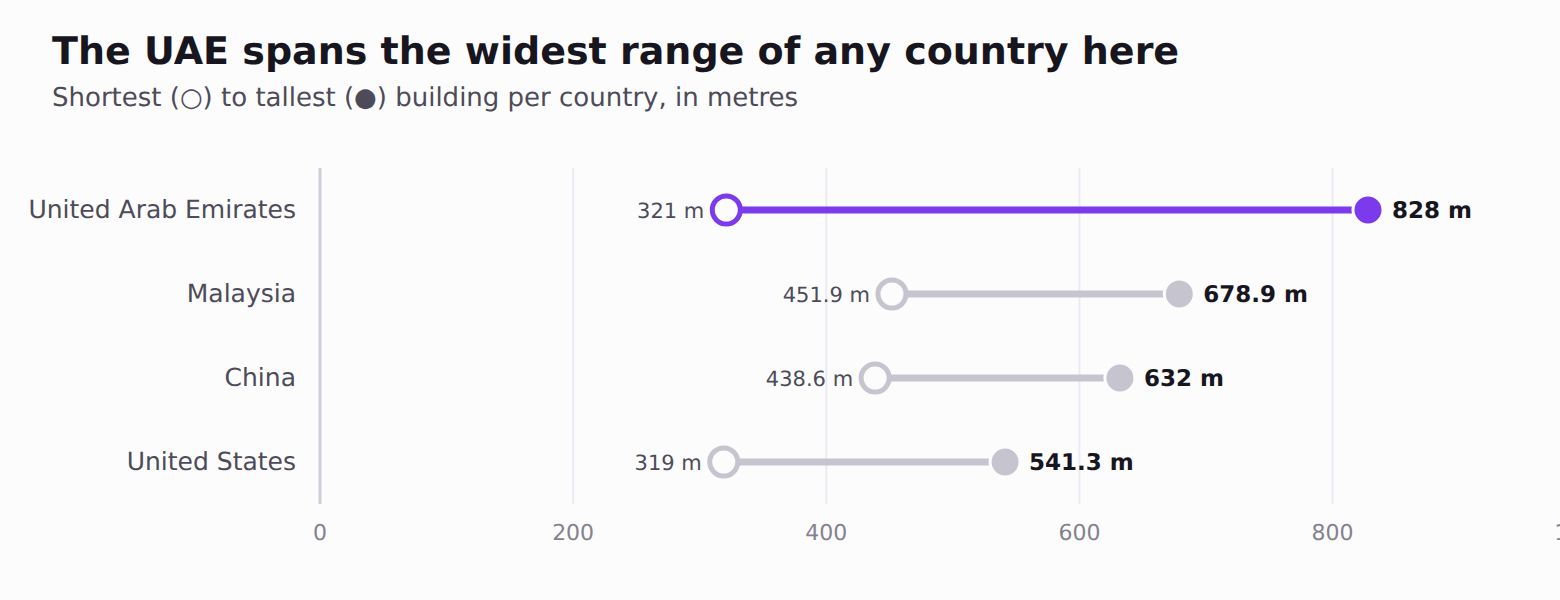
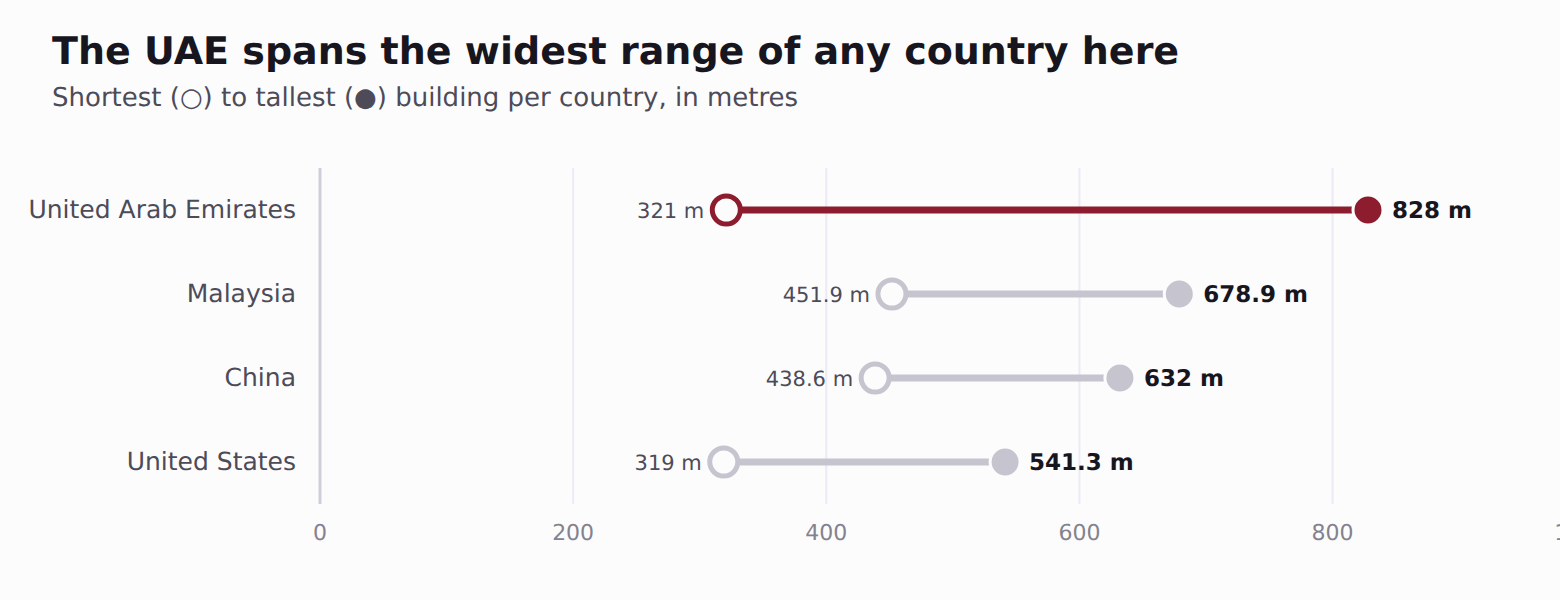
Highlight the dumbbell in maroon (distinct from the skyline accent)
Add a highlight_color option to dumbbell_chart and set the gallery's UAE
highlight to maroon (#8c1c2e), so the dumbbell reads differently from the
skyline's violet accent. Update README and gallery.html.

Claude-Session: https://claude.ai/code/session_017D31o85Z97G5tbzbCygbSp

Changed region(s): [[0.4308, 0.33, 0.8923, 0.39]]

diff --git a/examples/gallery.html b/examples/gallery.html
@@ -29,7 +29,7 @@
     <figure class="card"><figcaption><h2>Skyline</h2><p>The 15 tallest buildings, each drawn as its own recognizable silhouette, to scale.</p></figcaption><div class="chart"><svg xmlns="http://www.w3.org/2000/svg" width="1090" height="680" viewBox="0 0 1090 680" role="img" font-family="system-ui, -apple-system, 'Segoe UI', sans-serif"><title>Burj Khalifa still towers far above the next tallest</title><rect x="0" y="0" width="1090" height="680" fill="#fcfcfd"/><text x="26" y="32" font-size="19" font-weight="700" fill="#17161f" text-anchor="start">Burj Khalifa still towers far above the next tallest</text><text x="26" y="53" font-size="13" fill="#4d4b58" text-anchor="start">The 15 tallest buildings, each drawn to scale as its own silhouette · metres</text><line x1="52" y1="462.33816425120773" x2="1072" y2="462.33816425120773" stroke="#eceaf4" stroke-width="1"/><text x="46" y="466.33816425120773" font-size="10.5" fill="#84828e" text-anchor="end">200</text><line x1="52" y1="352.67632850241546" x2="1072" y2="352.67632850241546" stroke="#eceaf4" stroke-width="1"/><text x="46" y="356.67632850241546" font-size="10.5" fill="#84828e" text-anchor="end">400</text><line x1="52" y1="243.0144927536232" x2="1072" y2="243.0144927536232" stroke="#eceaf4" stroke-width="1"/><text x="46" y="247.0144927536232" font-size="10.5" fill="#84828e" text-anchor="end">600</text><line x1="52" y1="133.35265700483092" x2="1072" y2="133.35265700483092" stroke="#eceaf4" stroke-width="1"/><text x="46" y="137.35265700483092" font-size="10.5" fill="#84828e" text-anchor="end">800</text><path d="M 56.08 572.00 L 56.08 512.98 L 60.27 512.98 L 60.27 449.42 L 65.06 449.42 L 65.06 381.32 L 69.24 381.32 L 69.24 322.30 L 73.43 322.30 L 73.43 267.82 L 77.02 267.82 L 77.02 222.42 L 80.61 222.42 L 80.61 186.10 L 83.91 186.10 L 83.91 163.40 L 85.16 163.40 L 85.64 118.00 L 86.36 118.00 L 86.84 163.40 L 88.09 163.40 L 88.09 186.10 L 91.39 186.10 L 91.39 222.42 L 94.98 222.42 L 94.98 267.82 L 98.57 267.82 L 98.57 322.30 L 102.76 322.30 L 102.76 381.32 L 106.94 381.32 L 106.94 449.42 L 111.73 449.42 L 111.73 512.98 L 115.92 512.98 L 115.92 572.00 Z" fill="#7c3aed"/><text x="86.0" y="109.0" font-size="10" font-weight="600" fill="#17161f" text-anchor="middle">828 m</text><text x="86.0" y="584" font-size="11" fill="#4d4b58" text-anchor="end" transform="rotate(-90 86.0 584)">Burj Khalifa</text><path d="M 127.67 572.00 L 142.03 356.10 L 146.22 318.87 L 151.01 303.98 L 152.32 294.68 L 153.04 285.37 L 153.70 199.75 L 154.30 199.75 L 154.96 285.37 L 155.68 294.68 L 156.99 303.98 L 161.78 318.87 L 165.97 356.10 L 180.33 572.00 Z" fill="#4d4b58"/><text x="154.0" y="190.75289855072464" font-size="10" font-weight="400" fill="#4d4b58" text-anchor="middle">678.9 m</text><text x="154.0" y="584" font-size="11" fill="#4d4b58" text-anchor="end" transform="rotate(-90 154.0 584)">Merdeka 118</text><path d="M 196.87 572.00 C 201.65 416.06 214.82 301.71 216.02 242.80 Q 225.59 225.47 235.16 242.80 C 237.56 301.71 242.35 416.06 247.13 572.00 Z" fill="#4d4b58"/><text x="222.0" y="216.46859903381647" font-size="10" font-weight="400" fill="#4d4b58" text-anchor="middle">632 m</text><text x="222.0" y="584" font-size="11" fill="#4d4b58" text-anchor="end" transform="rotate(-90 222.0 584)">Shanghai Tower</text><path d="M 264.87 572.00 L 266.06 361.10 L 266.06 334.74 L 270.85 334.74 L 270.85 308.37 L 276.24 308.37 L 276.24 298.49 L 284.61 298.49 L 284.61 285.31 L 287.91 285.31 L 287.91 272.12 L 289.16 272.12 L 289.64 242.47 L 290.36 242.47 L 290.84 272.12 L 292.09 272.12 L 292.09 285.31 L 295.39 285.31 L 295.39 298.49 L 303.76 298.49 L 303.76 308.37 L 309.15 308.37 L 309.15 334.74 L 313.94 334.74 L 313.94 361.10 L 315.13 572.00 Z" fill="#4d4b58"/><circle cx="290.00" cy="374.28" r="8.98" fill="#fcfcfd" stroke="#4d4b58" stroke-width="1.5"/><line x1="290.00" y1="374.28" x2="290.00" y2="368.89" stroke="#4d4b58" stroke-width="1.3"/><line x1="290.00" y1="374.28" x2="294.49" y2="374.28" stroke="#4d4b58" stroke-width="1.3"/><text x="290.0" y="233.4661835748792" font-size="10" font-weight="400" fill="#4d4b58" text-anchor="middle">601 m</text><text x="290.0" y="584" font-size="11" fill="#4d4b58" text-anchor="end" transform="rotate(-90 290.0 584)">Abraj Al-Bait</text><path d="M 334.06 572.00 L 353.21 292.78 L 355.01 281.28 L 356.80 276.36 L 357.64 243.51 L 358.36 243.51 L 359.20 276.36 L 360.99 281.28 L 362.79 292.78 L 381.94 572.00 Z" fill="#4d4b58"/><text x="358.0" y="234.50797101449274" font-size="10" font-weight="400" fill="#4d4b58" text-anchor="middle">599.1 m</text><text x="358.0" y="584" font-size="11" fill="#4d4b58" text-anchor="end" transform="rotate(-90 358.0 584)">Ping An</text><path d="M 402.06 572.00 L 404.46 523.35 L 407.45 471.67 L 411.04 419.98 L 415.23 365.25 L 419.42 319.65 L 422.71 289.25 L 425.28 267.96 L 426.72 267.96 L 429.29 289.25 L 432.58 319.65 L 436.77 365.25 L 440.96 419.98 L 444.55 471.67 L 447.54 523.35 L 449.94 572.00 Z" fill="#4d4b58"/><text x="426.0" y="258.96256038647346" font-size="10" font-weight="400" fill="#4d4b58" text-anchor="middle">554.5 m</text><text x="426.0" y="584" font-size="11" fill="#4d4b58" text-anchor="end" transform="rotate(-90 426.0 584)">Lotte World</text><path d="M 468.87 572.00 L 485.62 334.56 L 492.32 334.56 L 492.32 328.62 L 493.22 328.62 L 493.52 275.20 L 494.48 275.20 L 494.78 328.62 L 495.68 328.62 L 495.68 334.56 L 502.38 334.56 L 519.13 572.00 Z" fill="#4d4b58"/><text x="494.0" y="266.20024154589373" font-size="10" font-weight="400" fill="#4d4b58" text-anchor="middle">541.3 m</text><text x="494.0" y="584" font-size="11" fill="#4d4b58" text-anchor="end" transform="rotate(-90 494.0 584)">One WTC</text><path d="M 536.87 572.00 L 536.87 473.19 L 541.36 473.19 L 541.36 397.64 L 545.54 397.64 L 545.54 333.70 L 549.13 333.70 L 549.13 281.40 L 574.87 281.40 L 574.87 333.70 L 578.46 333.70 L 578.46 397.64 L 582.64 397.64 L 582.64 473.19 L 587.13 473.19 L 587.13 572.00 Z" fill="#4d4b58"/><text x="562.0" y="272.3961352657005" font-size="10" font-weight="400" fill="#4d4b58" text-anchor="middle">530 m</text><text x="562.0" y="584" font-size="11" fill="#4d4b58" text-anchor="end" transform="rotate(-90 562.0 584)">Guangzhou CTF</text><path d="M 606.06 572.00 L 609.06 513.88 L 612.65 449.95 L 616.84 391.83 L 621.32 339.52 L 624.61 310.46 L 627.31 291.57 L 628.92 281.40 L 631.08 281.40 L 632.69 291.57 L 635.39 310.46 L 638.68 339.52 L 643.16 391.83 L 647.35 449.95 L 650.94 513.88 L 653.94 572.00 Z" fill="#4d4b58"/><text x="630.0" y="272.3961352657005" font-size="10" font-weight="400" fill="#4d4b58" text-anchor="middle">530 m</text><text x="630.0" y="584" font-size="11" fill="#4d4b58" text-anchor="end" transform="rotate(-90 630.0 584)">Tianjin CTF</text><path d="M 671.67 572.00 L 675.86 543.05 L 680.05 485.15 L 682.74 427.25 L 680.05 369.34 L 675.86 311.44 L 674.06 282.49 L 721.94 282.49 L 720.14 311.44 L 715.95 369.34 L 713.26 427.25 L 715.95 485.15 L 720.14 543.05 L 724.33 572.00 Z" fill="#4d4b58"/><text x="698.0" y="273.49275362318843" font-size="10" font-weight="400" fill="#4d4b58" text-anchor="middle">528 m</text><text x="698.0" y="584" font-size="11" fill="#4d4b58" text-anchor="end" transform="rotate(-90 698.0 584)">CITIC / Zun</text><path d="M 746.85 572.00 L 746.85 544.15 L 752.84 544.15 L 757.02 535.79 L 751.94 514.52 L 757.02 514.52 L 757.02 512.67 L 751.94 491.40 L 757.02 491.40 L 757.02 489.55 L 751.94 468.28 L 757.02 468.28 L 757.02 466.43 L 751.94 445.16 L 757.02 445.16 L 757.02 443.31 L 751.94 422.04 L 757.02 422.04 L 757.02 420.20 L 751.94 398.93 L 757.02 398.93 L 757.02 397.08 L 751.94 375.81 L 757.02 375.81 L 757.02 373.96 L 751.94 352.69 L 757.02 352.69 L 763.01 350.84 L 765.64 296.24 L 766.36 296.24 L 768.99 350.84 L 774.98 352.69 L 780.06 352.69 L 774.98 373.96 L 774.98 375.81 L 780.06 375.81 L 774.98 397.08 L 774.98 398.93 L 780.06 398.93 L 774.98 420.20 L 774.98 422.04 L 780.06 422.04 L 774.98 443.31 L 774.98 445.16 L 780.06 445.16 L 774.98 466.43 L 774.98 468.28 L 780.06 468.28 L 774.98 489.55 L 774.98 491.40 L 780.06 491.40 L 774.98 512.67 L 774.98 514.52 L 780.06 514.52 L 774.98 535.79 L 779.16 544.15 L 785.15 544.15 L 785.15 572.00 Z" fill="#4d4b58"/><text x="766.0" y="284.45893719806764" font-size="10" font-weight="400" fill="#4d4b58" text-anchor="middle">508 m</text><text x="766.0" y="584" font-size="11" fill="#4d4b58" text-anchor="end" transform="rotate(-90 766.0 584)">Taipei 101</text><path d="M 810.06 572.00 L 816.05 437.12 L 824.72 307.63 L 825.32 302.23 L 842.68 302.23 L 843.28 307.63 L 851.95 437.12 L 857.94 572.00 Z" fill="#4d4b58"/><path d="M 828.91 356.19 L 839.09 356.19 L 841.48 311.67 L 826.52 311.67 Z" fill="#fcfcfd"/><text x="834.0" y="293.231884057971" font-size="10" font-weight="400" fill="#4d4b58" text-anchor="middle">492 m</text><text x="834.0" y="584" font-size="11" fill="#4d4b58" text-anchor="end" transform="rotate(-90 834.0 584)">Shanghai WFC</text><path d="M 876.87 572.00 L 892.43 370.31 L 894.22 346.43 L 896.02 346.43 L 897.51 325.20 L 899.01 325.20 L 900.32 306.62 L 903.68 306.62 L 904.99 325.20 L 906.49 325.20 L 907.98 346.43 L 909.78 346.43 L 911.57 370.31 L 927.13 572.00 Z" fill="#4d4b58"/><text x="902.0" y="297.6183574879227" font-size="10" font-weight="400" fill="#4d4b58" text-anchor="middle">484 m</text><text x="902.0" y="584" font-size="11" fill="#4d4b58" text-anchor="end" transform="rotate(-90 902.0 584)">ICC (HK)</text><path d="M 946.06 572.00 L 961.02 381.44 L 963.42 360.26 L 967.01 360.26 L 968.32 354.97 L 969.64 307.33 L 970.36 307.33 L 971.68 354.97 L 972.99 360.26 L 976.58 360.26 L 978.98 381.44 L 993.94 572.00 Z" fill="#4d4b58"/><text x="970.0" y="298.3311594202899" font-size="10" font-weight="400" fill="#4d4b58" text-anchor="middle">482.7 m</text><text x="970.0" y="584" font-size="11" fill="#4d4b58" text-anchor="end" transform="rotate(-90 970.0 584)">Exchange 106</text><path d="M 1027.83 572.00 L 1029.32 556.46 L 1029.92 556.46 L 1030.22 312.98 L 1045.78 312.98 L 1046.08 556.46 L 1046.68 556.46 L 1048.17 572.00 Z" fill="#4d4b58"/><text x="1038.0" y="303.9787439613526" font-size="10" font-weight="400" fill="#4d4b58" text-anchor="middle">472.4 m</text><text x="1038.0" y="584" font-size="11" fill="#4d4b58" text-anchor="end" transform="rotate(-90 1038.0 584)">Central Park</text><line x1="52" y1="572" x2="1072" y2="572" stroke="#d0cdda" stroke-width="2"/></svg></div></figure>
     <figure class="card"><figcaption><h2>Bar chart</h2><p>How many of the 31 tallest each country holds — China leads.</p></figcaption><div class="chart"><svg xmlns="http://www.w3.org/2000/svg" width="780" height="370" viewBox="0 0 780 370" role="img" font-family="system-ui, -apple-system, 'Segoe UI', sans-serif"><title>China holds more of the world's tallest than anywhere else</title><rect x="0" y="0" width="780" height="370" fill="#fcfcfd"/><text x="26" y="32" font-size="19" font-weight="700" fill="#17161f" text-anchor="start">China holds more of the world's tallest than anywhere else</text><line x1="160.0" y1="84" x2="160.0" y2="324" stroke="#eceaf4" stroke-width="1"/><text x="160.0" y="342" font-size="11" fill="#84828e" text-anchor="middle">0</text><line x1="400.0" y1="84" x2="400.0" y2="324" stroke="#eceaf4" stroke-width="1"/><text x="400.0" y="342" font-size="11" fill="#84828e" text-anchor="middle">5</text><line x1="640.0" y1="84" x2="640.0" y2="324" stroke="#eceaf4" stroke-width="1"/><text x="640.0" y="342" font-size="11" fill="#84828e" text-anchor="middle">10</text><line x1="880.0" y1="84" x2="880.0" y2="324" stroke="#eceaf4" stroke-width="1"/><text x="880.0" y="342" font-size="11" fill="#84828e" text-anchor="middle">15</text><rect x="160" y="89.1" width="528.0" height="19.799999999999997" rx="3" fill="#7c3aed"/><text x="150" y="103.0" font-size="12.5" fill="#4d4b58" text-anchor="end">China</text><text x="696.0" y="103.0" font-size="11.5" font-weight="600" fill="#17161f" text-anchor="start">11</text><rect x="160" y="119.1" width="336.0" height="19.799999999999997" rx="3" fill="#4d4b58"/><text x="150" y="133.0" font-size="12.5" fill="#4d4b58" text-anchor="end">United States</text><text x="504.0" y="133.0" font-size="11.5" font-weight="600" fill="#17161f" text-anchor="start">7</text><rect x="160" y="149.1" width="192.0" height="19.799999999999997" rx="3" fill="#4d4b58"/><text x="150" y="163.0" font-size="12.5" fill="#4d4b58" text-anchor="end">Malaysia</text><text x="360.0" y="163.0" font-size="11.5" font-weight="600" fill="#17161f" text-anchor="start">4</text><rect x="160" y="179.1" width="96.0" height="19.799999999999997" rx="3" fill="#4d4b58"/><text x="150" y="193.0" font-size="12.5" fill="#4d4b58" text-anchor="end">United Arab Emirates</text><text x="264.0" y="193.0" font-size="11.5" font-weight="600" fill="#17161f" text-anchor="start">2</text><rect x="160" y="209.1" width="48.0" height="19.799999999999997" rx="3" fill="#4d4b58"/><text x="150" y="223.0" font-size="12.5" fill="#4d4b58" text-anchor="end">Saudi Arabia</text><text x="216.0" y="223.0" font-size="11.5" font-weight="600" fill="#17161f" text-anchor="start">1</text><rect x="160" y="239.1" width="48.0" height="19.799999999999997" rx="3" fill="#4d4b58"/><text x="150" y="253.0" font-size="12.5" fill="#4d4b58" text-anchor="end">South Korea</text><text x="216.0" y="253.0" font-size="11.5" font-weight="600" fill="#17161f" text-anchor="start">1</text><rect x="160" y="269.1" width="48.0" height="19.799999999999997" rx="3" fill="#4d4b58"/><text x="150" y="283.0" font-size="12.5" fill="#4d4b58" text-anchor="end">Taiwan</text><text x="216.0" y="283.0" font-size="11.5" font-weight="600" fill="#17161f" text-anchor="start">1</text><rect x="160" y="299.1" width="48.0" height="19.799999999999997" rx="3" fill="#4d4b58"/><text x="150" y="313.0" font-size="12.5" fill="#4d4b58" text-anchor="end">Russia</text><text x="216.0" y="313.0" font-size="11.5" font-weight="600" fill="#17161f" text-anchor="start">1</text><line x1="160" y1="84" x2="160" y2="324" stroke="#d0cdda" stroke-width="1.5"/></svg></div></figure>
     <figure class="card"><figcaption><h2>Bubble</h2><p>Year vs height; size = floors. Mixed-use towers highlighted in the accent.</p></figcaption><div class="chart"><svg xmlns="http://www.w3.org/2000/svg" width="820" height="560" viewBox="0 0 820 560" role="img" font-family="system-ui, -apple-system, 'Segoe UI', sans-serif"><title>The very tallest towers are almost all mixed-use</title><rect x="0" y="0" width="820" height="560" fill="#fcfcfd"/><text x="26" y="32" font-size="19" font-weight="700" fill="#17161f" text-anchor="start">The very tallest towers are almost all mixed-use</text><line x1="66" y1="502.0" x2="794" y2="502.0" stroke="#eceaf4" stroke-width="1"/><text x="58" y="506.0" font-size="11" fill="#84828e" text-anchor="end">0</text><line x1="66" y1="410.4501858599242" x2="794" y2="410.4501858599242" stroke="#eceaf4" stroke-width="1"/><text x="58" y="414.4501858599242" font-size="11" fill="#84828e" text-anchor="end">200</text><line x1="66" y1="318.9003717198484" x2="794" y2="318.9003717198484" stroke="#eceaf4" stroke-width="1"/><text x="58" y="322.9003717198484" font-size="11" fill="#84828e" text-anchor="end">400</text><line x1="66" y1="227.35055757977256" x2="794" y2="227.35055757977256" stroke="#eceaf4" stroke-width="1"/><text x="58" y="231.35055757977256" font-size="11" fill="#84828e" text-anchor="end">600</text><line x1="66" y1="135.80074343969676" x2="794" y2="135.80074343969676" stroke="#eceaf4" stroke-width="1"/><text x="58" y="139.80074343969676" font-size="11" fill="#84828e" text-anchor="end">800</text><text x="251.1716722284021" y="520" font-size="11" fill="#84828e" text-anchor="middle">1950</text><text x="588.5836114200962" y="520" font-size="11" fill="#84828e" text-anchor="middle">2000</text><circle cx="669.5624768261029" cy="226.89280850907215" r="29.172640346483483" fill="#c6c4cf" fill-opacity="0.6" stroke="#c6c4cf" stroke-width="1.4"/><circle cx="703.3036707452723" cy="227.76253174340292" r="28.558410706583263" fill="#c6c4cf" fill-opacity="0.6" stroke="#c6c4cf" stroke-width="1.4"/><circle cx="710.0519095291062" cy="260.30849067019983" r="27.675596656743433" fill="#c6c4cf" fill-opacity="0.6" stroke="#c6c4cf" stroke-width="1.4"/><circle cx="406.3811642565814" cy="299.6291358433624" r="27.675596656743433" fill="#c6c4cf" fill-opacity="0.6" stroke="#c6c4cf" stroke-width="1.4"/><circle cx="122.95513533555834" cy="327.5976040631556" r="26.89584546110207" fill="#c6c4cf" fill-opacity="0.6" stroke="#c6c4cf" stroke-width="1.4"/><circle cx="615.5765665554318" cy="269.4634720842074" r="26.76367834449531" fill="#c6c4cf" fill-opacity="0.6" stroke="#c6c4cf" stroke-width="1.4"/><circle cx="723.5483870967739" cy="285.7593390011409" r="26.363201719593455" fill="#c6c4cf" fill-opacity="0.6" stroke="#c6c4cf" stroke-width="1.4"/><circle cx="716.80014831294" cy="281.044523572927" r="25.9565469831475" fill="#c6c4cf" fill-opacity="0.6" stroke="#c6c4cf" stroke-width="1.4"/><circle cx="683.0589543937706" cy="254.22042802988483" r="25.8195721643188" fill="#c6c4cf" fill-opacity="0.6" stroke="#c6c4cf" stroke-width="1.4"/><circle cx="575.0871338524285" cy="295.1431949504987" r="24.981956678955363" fill="#c6c4cf" fill-opacity="0.6" stroke="#c6c4cf" stroke-width="1.4"/><circle cx="575.0871338524285" cy="295.1431949504987" r="24.981956678955363" fill="#c6c4cf" fill-opacity="0.6" stroke="#c6c4cf" stroke-width="1.4"/><circle cx="716.80014831294" cy="290.51992933642487" r="24.839608188724014" fill="#c6c4cf" fill-opacity="0.6" stroke="#c6c4cf" stroke-width="1.4"/><circle cx="689.8071931776045" cy="307.2277704169887" r="24.552435437030898" fill="#c6c4cf" fill-opacity="0.6" stroke="#c6c4cf" stroke-width="1.4"/><circle cx="116.20689655172444" cy="355.97804644657907" r="23.368480685969985" fill="#c6c4cf" fill-opacity="0.6" stroke="#c6c4cf" stroke-width="1.4"/><circle cx="581.8353726362624" cy="355.0625483051783" r="19.92870728956419" fill="#c6c4cf" fill-opacity="0.6" stroke="#c6c4cf" stroke-width="1.4"/><circle cx="656.065999258435" cy="334.46384012366127" r="19.749970878288696" fill="#c6c4cf" fill-opacity="0.6" stroke="#c6c4cf" stroke-width="1.4"/><circle cx="656.065999258435" cy="122.98376946008614" r="34.0" fill="#7c3aed" fill-opacity="0.6" stroke="#7c3aed" stroke-width="1.4"/><circle cx="689.8071931776045" cy="212.70258731736044" r="30.129373393821094" fill="#7c3aed" fill-opacity="0.6" stroke="#7c3aed" stroke-width="1.4"/><circle cx="703.3036707452723" cy="248.17814029663978" r="29.535047289701566" fill="#7c3aed" fill-opacity="0.6" stroke="#7c3aed" stroke-width="1.4"/><circle cx="743.7931034482755" cy="191.23415590151268" r="28.92851354123681" fill="#7c3aed" fill-opacity="0.6" stroke="#7c3aed" stroke-width="1.4"/><circle cx="696.5554319614383" cy="259.39299252879914" r="28.05734705788094" fill="#7c3aed" fill-opacity="0.6" stroke="#7c3aed" stroke-width="1.4"/><circle cx="656.065999258435" cy="280.4494497810165" r="27.675596656743433" fill="#7c3aed" fill-opacity="0.6" stroke="#7c3aed" stroke-width="1.4"/><circle cx="656.065999258435" cy="301.2312575908137" r="27.027366272120595" fill="#7c3aed" fill-opacity="0.6" stroke="#7c3aed" stroke-width="1.4"/><circle cx="642.5695216907674" cy="276.7874572154135" r="26.76367834449531" fill="#7c3aed" fill-opacity="0.6" stroke="#7c3aed" stroke-width="1.4"/><circle cx="662.8142380422689" cy="299.7664605645725" r="26.630855299590547" fill="#7c3aed" fill-opacity="0.6" stroke="#7c3aed" stroke-width="1.4"/><circle cx="716.80014831294" cy="259.39299252879914" r="26.22835069858755" fill="#7c3aed" fill-opacity="0.6" stroke="#7c3aed" stroke-width="1.4"/><circle cx="669.5624768261029" cy="360.2808877111626" r="25.9565469831475" fill="#7c3aed" fill-opacity="0.6" stroke="#7c3aed" stroke-width="1.4"/><circle cx="710.0519095291062" cy="295.0516451363586" r="25.8195721643188" fill="#7c3aed" fill-opacity="0.6" stroke="#7c3aed" stroke-width="1.4"/><circle cx="656.065999258435" cy="296.01291818482946" r="25.123498642686688" fill="#7c3aed" fill-opacity="0.6" stroke="#7c3aed" stroke-width="1.4"/><circle cx="710.0519095291062" cy="290.8861285929852" r="23.967769769631495" fill="#7c3aed" fill-opacity="0.6" stroke="#7c3aed" stroke-width="1.4"/><text x="656.065999258435" y="82.98376946008614" font-size="11" font-weight="600" fill="#17161f" text-anchor="middle">Burj Khalifa</text><text x="723.5483870967739" y="253.39613728154745" font-size="11" font-weight="600" fill="#17161f" text-anchor="middle">Central Park Tower</text><text x="406.3811642565814" y="265.95353918661897" font-size="11" font-weight="600" fill="#17161f" text-anchor="middle">Willis Tower (Sears Tower)</text><circle cx="72" cy="74" r="6" fill="#7c3aed"/><text x="82" y="78" font-size="12.5" fill="#4d4b58" text-anchor="start">mixed-use</text><circle cx="164.60000000000002" cy="74" r="6" fill="#c6c4cf"/><text x="174.60000000000002" y="78" font-size="12.5" fill="#4d4b58" text-anchor="start">other</text><text x="430.0" y="546" font-size="12.5" fill="#4d4b58" text-anchor="middle">Year completed</text><text x="18" y="303.0" font-size="12.5" fill="#4d4b58" text-anchor="middle" transform="rotate(-90 18 303.0)">Height (metres)</text><line x1="66" y1="502" x2="794" y2="502" stroke="#d0cdda" stroke-width="1.5"/></svg></div></figure>
-    <figure class="card"><figcaption><h2>Dumbbell</h2><p>How far apart each country's shortest and tallest are; the UAE highlighted.</p></figcaption><div class="chart"><svg xmlns="http://www.w3.org/2000/svg" width="780" height="300" viewBox="0 0 780 300" role="img" font-family="system-ui, -apple-system, 'Segoe UI', sans-serif"><title>The UAE spans the widest range of any country here</title><rect x="0" y="0" width="780" height="300" fill="#fcfcfd"/><text x="26" y="32" font-size="19" font-weight="700" fill="#17161f" text-anchor="start">The UAE spans the widest range of any country here</text><text x="26" y="53" font-size="13" fill="#4d4b58" text-anchor="start">Shortest (○) to tallest (●) building per country, in metres</text><line x1="160.0" y1="84" x2="160.0" y2="252" stroke="#eceaf4" stroke-width="1"/><text x="160.0" y="270" font-size="11" fill="#84828e" text-anchor="middle">0</text><line x1="286.57004830917873" y1="84" x2="286.57004830917873" y2="252" stroke="#eceaf4" stroke-width="1"/><text x="286.57004830917873" y="270" font-size="11" fill="#84828e" text-anchor="middle">200</text><line x1="413.14009661835746" y1="84" x2="413.14009661835746" y2="252" stroke="#eceaf4" stroke-width="1"/><text x="413.14009661835746" y="270" font-size="11" fill="#84828e" text-anchor="middle">400</text><line x1="539.7101449275362" y1="84" x2="539.7101449275362" y2="252" stroke="#eceaf4" stroke-width="1"/><text x="539.7101449275362" y="270" font-size="11" fill="#84828e" text-anchor="middle">600</text><line x1="666.2801932367149" y1="84" x2="666.2801932367149" y2="252" stroke="#eceaf4" stroke-width="1"/><text x="666.2801932367149" y="270" font-size="11" fill="#84828e" text-anchor="middle">800</text><line x1="792.8502415458937" y1="84" x2="792.8502415458937" y2="252" stroke="#eceaf4" stroke-width="1"/><text x="792.8502415458937" y="270" font-size="11" fill="#84828e" text-anchor="middle">1,000</text><line x1="363.1449275362319" y1="105.0" x2="684.0" y2="105.0" stroke="#7c3aed" stroke-width="3.5" stroke-linecap="round"/><circle cx="363.1449275362319" cy="105.0" r="7" fill="#fcfcfd" stroke="#7c3aed" stroke-width="2.5"/><circle cx="684.0" cy="105.0" r="7.5" fill="#7c3aed" stroke="#fcfcfd" stroke-width="1.5"/><text x="148" y="109.0" font-size="12.5" fill="#4d4b58" text-anchor="end">United Arab Emirates</text><text x="352.1449275362319" y="109.0" font-size="10.5" fill="#4d4b58" text-anchor="end">321 m</text><text x="696.0" y="109.0" font-size="11.5" font-weight="600" fill="#17161f" text-anchor="start">828 m</text><line x1="445.9850241545894" y1="147.0" x2="589.6420289855073" y2="147.0" stroke="#c6c4cf" stroke-width="3.5" stroke-linecap="round"/><circle cx="445.9850241545894" cy="147.0" r="7" fill="#fcfcfd" stroke="#c6c4cf" stroke-width="2.5"/><circle cx="589.6420289855073" cy="147.0" r="7.5" fill="#c6c4cf" stroke="#fcfcfd" stroke-width="1.5"/><text x="148" y="151.0" font-size="12.5" fill="#4d4b58" text-anchor="end">Malaysia</text><text x="434.9850241545894" y="151.0" font-size="10.5" fill="#4d4b58" text-anchor="end">451.9 m</text><text x="601.6420289855073" y="151.0" font-size="11.5" font-weight="600" fill="#17161f" text-anchor="start">678.9 m</text><line x1="437.56811594202895" y1="189.0" x2="559.9613526570048" y2="189.0" stroke="#c6c4cf" stroke-width="3.5" stroke-linecap="round"/><circle cx="437.56811594202895" cy="189.0" r="7" fill="#fcfcfd" stroke="#c6c4cf" stroke-width="2.5"/><circle cx="559.9613526570048" cy="189.0" r="7.5" fill="#c6c4cf" stroke="#fcfcfd" stroke-width="1.5"/><text x="148" y="193.0" font-size="12.5" fill="#4d4b58" text-anchor="end">China</text><text x="426.56811594202895" y="193.0" font-size="10.5" fill="#4d4b58" text-anchor="end">438.6 m</text><text x="571.9613526570048" y="193.0" font-size="11.5" font-weight="600" fill="#17161f" text-anchor="start">632 m</text><line x1="361.8792270531401" y1="231.0" x2="502.56183574879225" y2="231.0" stroke="#c6c4cf" stroke-width="3.5" stroke-linecap="round"/><circle cx="361.8792270531401" cy="231.0" r="7" fill="#fcfcfd" stroke="#c6c4cf" stroke-width="2.5"/><circle cx="502.56183574879225" cy="231.0" r="7.5" fill="#c6c4cf" stroke="#fcfcfd" stroke-width="1.5"/><text x="148" y="235.0" font-size="12.5" fill="#4d4b58" text-anchor="end">United States</text><text x="350.8792270531401" y="235.0" font-size="10.5" fill="#4d4b58" text-anchor="end">319 m</text><text x="514.5618357487922" y="235.0" font-size="11.5" font-weight="600" fill="#17161f" text-anchor="start">541.3 m</text><line x1="160" y1="84" x2="160" y2="252" stroke="#d0cdda" stroke-width="1.5"/></svg></div></figure>
+    <figure class="card"><figcaption><h2>Dumbbell</h2><p>How far apart each country's shortest and tallest are; the UAE in maroon.</p></figcaption><div class="chart"><svg xmlns="http://www.w3.org/2000/svg" width="780" height="300" viewBox="0 0 780 300" role="img" font-family="system-ui, -apple-system, 'Segoe UI', sans-serif"><title>The UAE spans the widest range of any country here</title><rect x="0" y="0" width="780" height="300" fill="#fcfcfd"/><text x="26" y="32" font-size="19" font-weight="700" fill="#17161f" text-anchor="start">The UAE spans the widest range of any country here</text><text x="26" y="53" font-size="13" fill="#4d4b58" text-anchor="start">Shortest (○) to tallest (●) building per country, in metres</text><line x1="160.0" y1="84" x2="160.0" y2="252" stroke="#eceaf4" stroke-width="1"/><text x="160.0" y="270" font-size="11" fill="#84828e" text-anchor="middle">0</text><line x1="286.57004830917873" y1="84" x2="286.57004830917873" y2="252" stroke="#eceaf4" stroke-width="1"/><text x="286.57004830917873" y="270" font-size="11" fill="#84828e" text-anchor="middle">200</text><line x1="413.14009661835746" y1="84" x2="413.14009661835746" y2="252" stroke="#eceaf4" stroke-width="1"/><text x="413.14009661835746" y="270" font-size="11" fill="#84828e" text-anchor="middle">400</text><line x1="539.7101449275362" y1="84" x2="539.7101449275362" y2="252" stroke="#eceaf4" stroke-width="1"/><text x="539.7101449275362" y="270" font-size="11" fill="#84828e" text-anchor="middle">600</text><line x1="666.2801932367149" y1="84" x2="666.2801932367149" y2="252" stroke="#eceaf4" stroke-width="1"/><text x="666.2801932367149" y="270" font-size="11" fill="#84828e" text-anchor="middle">800</text><line x1="792.8502415458937" y1="84" x2="792.8502415458937" y2="252" stroke="#eceaf4" stroke-width="1"/><text x="792.8502415458937" y="270" font-size="11" fill="#84828e" text-anchor="middle">1,000</text><line x1="363.1449275362319" y1="105.0" x2="684.0" y2="105.0" stroke="#8c1c2e" stroke-width="3.5" stroke-linecap="round"/><circle cx="363.1449275362319" cy="105.0" r="7" fill="#fcfcfd" stroke="#8c1c2e" stroke-width="2.5"/><circle cx="684.0" cy="105.0" r="7.5" fill="#8c1c2e" stroke="#fcfcfd" stroke-width="1.5"/><text x="148" y="109.0" font-size="12.5" fill="#4d4b58" text-anchor="end">United Arab Emirates</text><text x="352.1449275362319" y="109.0" font-size="10.5" fill="#4d4b58" text-anchor="end">321 m</text><text x="696.0" y="109.0" font-size="11.5" font-weight="600" fill="#17161f" text-anchor="start">828 m</text><line x1="445.9850241545894" y1="147.0" x2="589.6420289855073" y2="147.0" stroke="#c6c4cf" stroke-width="3.5" stroke-linecap="round"/><circle cx="445.9850241545894" cy="147.0" r="7" fill="#fcfcfd" stroke="#c6c4cf" stroke-width="2.5"/><circle cx="589.6420289855073" cy="147.0" r="7.5" fill="#c6c4cf" stroke="#fcfcfd" stroke-width="1.5"/><text x="148" y="151.0" font-size="12.5" fill="#4d4b58" text-anchor="end">Malaysia</text><text x="434.9850241545894" y="151.0" font-size="10.5" fill="#4d4b58" text-anchor="end">451.9 m</text><text x="601.6420289855073" y="151.0" font-size="11.5" font-weight="600" fill="#17161f" text-anchor="start">678.9 m</text><line x1="437.56811594202895" y1="189.0" x2="559.9613526570048" y2="189.0" stroke="#c6c4cf" stroke-width="3.5" stroke-linecap="round"/><circle cx="437.56811594202895" cy="189.0" r="7" fill="#fcfcfd" stroke="#c6c4cf" stroke-width="2.5"/><circle cx="559.9613526570048" cy="189.0" r="7.5" fill="#c6c4cf" stroke="#fcfcfd" stroke-width="1.5"/><text x="148" y="193.0" font-size="12.5" fill="#4d4b58" text-anchor="end">China</text><text x="426.56811594202895" y="193.0" font-size="10.5" fill="#4d4b58" text-anchor="end">438.6 m</text><text x="571.9613526570048" y="193.0" font-size="11.5" font-weight="600" fill="#17161f" text-anchor="start">632 m</text><line x1="361.8792270531401" y1="231.0" x2="502.56183574879225" y2="231.0" stroke="#c6c4cf" stroke-width="3.5" stroke-linecap="round"/><circle cx="361.8792270531401" cy="231.0" r="7" fill="#fcfcfd" stroke="#c6c4cf" stroke-width="2.5"/><circle cx="502.56183574879225" cy="231.0" r="7.5" fill="#c6c4cf" stroke="#fcfcfd" stroke-width="1.5"/><text x="148" y="235.0" font-size="12.5" fill="#4d4b58" text-anchor="end">United States</text><text x="350.8792270531401" y="235.0" font-size="10.5" fill="#4d4b58" text-anchor="end">319 m</text><text x="514.5618357487922" y="235.0" font-size="11.5" font-weight="600" fill="#17161f" text-anchor="start">541.3 m</text><line x1="160" y1="84" x2="160" y2="252" stroke="#d0cdda" stroke-width="1.5"/></svg></div></figure>
     <figure class="card"><figcaption><h2>Beeswarm</h2><p>The height distribution as non-overlapping dots; the two outliers named.</p></figcaption><div class="chart"><svg xmlns="http://www.w3.org/2000/svg" width="840" height="420" viewBox="0 0 840 420" role="img" font-family="system-ui, -apple-system, 'Segoe UI', sans-serif"><title>Most of these cluster between 300 and 550 metres</title><rect x="0" y="0" width="840" height="420" fill="#fcfcfd"/><text x="26" y="32" font-size="19" font-weight="700" fill="#17161f" text-anchor="start">Most of these cluster between 300 and 550 metres</text><line x1="-72.99382716049382" y1="100" x2="-72.99382716049382" y2="380" stroke="#eceaf4" stroke-width="1"/><text x="-72.99382716049382" y="398" font-size="11" fill="#84828e" text-anchor="middle">200</text><line x1="197.0679012345679" y1="100" x2="197.0679012345679" y2="380" stroke="#eceaf4" stroke-width="1"/><text x="197.0679012345679" y="398" font-size="11" fill="#84828e" text-anchor="middle">400</text><line x1="467.1296296296296" y1="100" x2="467.1296296296296" y2="380" stroke="#eceaf4" stroke-width="1"/><text x="467.1296296296296" y="398" font-size="11" fill="#84828e" text-anchor="middle">600</text><line x1="737.1913580246913" y1="100" x2="737.1913580246913" y2="380" stroke="#eceaf4" stroke-width="1"/><text x="737.1913580246913" y="398" font-size="11" fill="#84828e" text-anchor="middle">800</text><line x1="1007.2530864197529" y1="100" x2="1007.2530864197529" y2="380" stroke="#eceaf4" stroke-width="1"/><text x="1007.2530864197529" y="398" font-size="11" fill="#84828e" text-anchor="middle">1,000</text><circle cx="75.00000000000003" cy="245.0" r="6" fill="#c6c4cf" fill-opacity="0.82" stroke="#fcfcfd" stroke-width="1.2"/><circle cx="87.6929012345679" cy="245.0" r="6" fill="#c6c4cf" fill-opacity="0.82" stroke="#fcfcfd" stroke-width="1.2"/><circle cx="90.3935185185185" cy="259.0" r="6" fill="#c6c4cf" fill-opacity="0.82" stroke="#fcfcfd" stroke-width="1.2"/><circle cx="102.54629629629629" cy="245.0" r="6" fill="#c6c4cf" fill-opacity="0.82" stroke="#fcfcfd" stroke-width="1.2"/><circle cx="151.1574074074074" cy="245.0" r="6" fill="#c6c4cf" fill-opacity="0.82" stroke="#fcfcfd" stroke-width="1.2"/><circle cx="171.41203703703704" cy="245.0" r="6" fill="#c6c4cf" fill-opacity="0.82" stroke="#fcfcfd" stroke-width="1.2"/><circle cx="231.50077160493825" cy="245.0" r="6" fill="#c6c4cf" fill-opacity="0.82" stroke="#fcfcfd" stroke-width="1.2"/><circle cx="249.1898148148148" cy="245.0" r="6" fill="#c6c4cf" fill-opacity="0.82" stroke="#fcfcfd" stroke-width="1.2"/><circle cx="253.5108024691358" cy="259.0" r="6" fill="#c6c4cf" fill-opacity="0.82" stroke="#fcfcfd" stroke-width="1.2"/><circle cx="253.91589506172843" cy="231.0" r="6" fill="#c6c4cf" fill-opacity="0.82" stroke="#fcfcfd" stroke-width="1.2"/><circle cx="264.5833333333333" cy="245.0" r="6" fill="#c6c4cf" fill-opacity="0.82" stroke="#fcfcfd" stroke-width="1.2"/><circle cx="267.1489197530864" cy="259.0" r="6" fill="#c6c4cf" fill-opacity="0.82" stroke="#fcfcfd" stroke-width="1.2"/><circle cx="267.1489197530864" cy="231.0" r="6" fill="#c6c4cf" fill-opacity="0.82" stroke="#fcfcfd" stroke-width="1.2"/><circle cx="267.4189814814815" cy="273.0" r="6" fill="#c6c4cf" fill-opacity="0.82" stroke="#fcfcfd" stroke-width="1.2"/><circle cx="279.7067901234568" cy="245.0" r="6" fill="#c6c4cf" fill-opacity="0.82" stroke="#fcfcfd" stroke-width="1.2"/><circle cx="280.78703703703707" cy="259.0" r="6" fill="#c6c4cf" fill-opacity="0.82" stroke="#fcfcfd" stroke-width="1.2"/><circle cx="294.8302469135802" cy="245.0" r="6" fill="#c6c4cf" fill-opacity="0.82" stroke="#fcfcfd" stroke-width="1.2"/><circle cx="308.7384259259259" cy="245.0" r="6" fill="#c6c4cf" fill-opacity="0.82" stroke="#fcfcfd" stroke-width="1.2"/><circle cx="310.49382716049377" cy="259.0" r="6" fill="#c6c4cf" fill-opacity="0.82" stroke="#fcfcfd" stroke-width="1.2"/><circle cx="321.2962962962963" cy="245.0" r="6" fill="#c6c4cf" fill-opacity="0.82" stroke="#fcfcfd" stroke-width="1.2"/><circle cx="342.9012345679012" cy="245.0" r="6" fill="#c6c4cf" fill-opacity="0.82" stroke="#fcfcfd" stroke-width="1.2"/><circle cx="369.9074074074074" cy="245.0" r="6" fill="#c6c4cf" fill-opacity="0.82" stroke="#fcfcfd" stroke-width="1.2"/><circle cx="372.608024691358" cy="259.0" r="6" fill="#c6c4cf" fill-opacity="0.82" stroke="#fcfcfd" stroke-width="1.2"/><circle cx="372.608024691358" cy="231.0" r="6" fill="#c6c4cf" fill-opacity="0.82" stroke="#fcfcfd" stroke-width="1.2"/><circle cx="387.8665123456789" cy="245.0" r="6" fill="#c6c4cf" fill-opacity="0.82" stroke="#fcfcfd" stroke-width="1.2"/><circle cx="405.69058641975306" cy="245.0" r="6" fill="#c6c4cf" fill-opacity="0.82" stroke="#fcfcfd" stroke-width="1.2"/><circle cx="465.9143518518519" cy="245.0" r="6" fill="#c6c4cf" fill-opacity="0.82" stroke="#fcfcfd" stroke-width="1.2"/><circle cx="468.47993827160496" cy="259.0" r="6" fill="#c6c4cf" fill-opacity="0.82" stroke="#fcfcfd" stroke-width="1.2"/><circle cx="510.3395061728395" cy="245.0" r="6" fill="#c6c4cf" fill-opacity="0.82" stroke="#fcfcfd" stroke-width="1.2"/><circle cx="573.6689814814814" cy="245.0" r="7" fill="#7c3aed" fill-opacity="0.82" stroke="#fcfcfd" stroke-width="1.2"/><text x="573.6689814814814" y="233.0" font-size="11" font-weight="600" fill="#17161f" text-anchor="middle">Merdeka 118</text><circle cx="774.9999999999999" cy="245.0" r="7" fill="#7c3aed" fill-opacity="0.82" stroke="#fcfcfd" stroke-width="1.2"/><text x="774.9999999999999" y="233.0" font-size="11" font-weight="600" fill="#17161f" text-anchor="middle">Burj Khalifa</text><text x="425.0" y="414" font-size="12.5" fill="#4d4b58" text-anchor="middle">Height (metres)</text></svg></div></figure>
   </div>
   <footer>Generated by vizcraft from tallest_buildings.csv. Each chart is inline SVG &mdash; no external assets.</footer>

diff --git a/src/vizcraft/charts.py b/src/vizcraft/charts.py
@@ -340,8 +340,8 @@ def bubble_chart(
 
 def dumbbell_chart(
     categories: Sequence, low: Sequence[float], high: Sequence[float], *,
-    low_label="shortest", high_label="tallest", highlight=None, title=None, subtitle=None,
-    unit="", decimals=None, width=None, height=None, theme="light",
+    low_label="shortest", high_label="tallest", highlight=None, highlight_color=None,
+    title=None, subtitle=None, unit="", decimals=None, width=None, height=None, theme="light",
 ) -> SVG:
     """Horizontal dumbbell chart: for each category (a row), a connector line
     joins a ``low`` and a ``high`` value, with a dot at each end (an open circle
@@ -350,7 +350,9 @@ def dumbbell_chart(
     The value axis runs horizontally and category names read down the left.
     ``highlight`` (a category name or index) switches to a focus palette: that
     dumbbell is drawn in the accent color and the rest recede to a neutral gray;
-    otherwise dumbbells are colored per category.
+    otherwise dumbbells are colored per category. ``highlight_color`` overrides
+    the accent for the highlighted dumbbell (e.g. a maroon distinct from another
+    chart's accent).
     """
     theme = get_theme(theme)
     if not (len(categories) == len(low) == len(high)):
@@ -380,8 +382,9 @@ def dumbbell_chart(
     for i, (cat, lo, hi) in enumerate(zip(categories, low, high)):
         cy = band.center(i)
         xlo, xhi = x(lo), x(hi)
+        accent = highlight_color or theme.accent
         color = (theme.color(i) if hi_idx is None
-                 else theme.accent if i == hi_idx else theme.muted)
+                 else accent if i == hi_idx else theme.muted)
         # Dumbbell: connector with an open circle at the shortest and a filled
         # dot at the tallest.
         svg.line(xlo, cy, xhi, cy, stroke=color, stroke_width=3.5, stroke_linecap="round")

diff --git a/examples/gallery.py b/examples/gallery.py
@@ -62,7 +62,8 @@ def main(out_dir: Path) -> None:
     order = sorted(range(len(cats)), key=lambda i: hi[i], reverse=True)
     charts.append(("dumbbell_country_range", vc.dumbbell_chart(
         [cats[i] for i in order], [lo[i] for i in order], [hi[i] for i in order],
-        low_label="shortest", high_label="tallest", highlight="United Arab Emirates",
+        low_label="shortest", high_label="tallest",
+        highlight="United Arab Emirates", highlight_color="#8c1c2e",  # maroon
         title="The UAE spans the widest range of any country here",
         subtitle="Shortest (○) to tallest (●) building per country, in metres",
         unit=" m",

diff --git a/README.md b/README.md
@@ -48,7 +48,8 @@ glance.
 ### Dumbbell — each country's shortest-to-tallest range
 A horizontal dumbbell: for each country a connector joins its shortest (open
 circle) and tallest (filled dot) building. The UAE — the widest range — is
-highlighted in the accent color and the rest recede to gray.
+highlighted in **maroon** (distinct from the skyline's accent) and the rest
+recede to gray.
 
 ![Horizontal dumbbell chart of each country's shortest-to-tallest building range](docs/charts/dumbbell_country_range.png)
 
